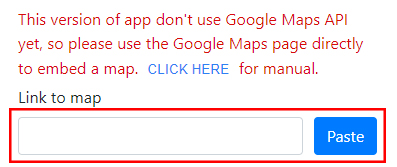
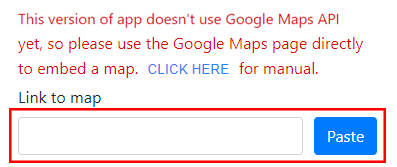
Fix  text on manual

Changed region(s): [[0.0302, 0.0599, 0.8766, 0.1796]]

diff --git a/src/components/routes/sidebar/addEditMode/SidebarAddEditMode.js b/src/components/routes/sidebar/addEditMode/SidebarAddEditMode.js
@@ -268,7 +268,7 @@ export default function SidebarAddEditMode({ routeId }) {
             </Form.Group>
 
             <div className="sidebarAddEditMode__warning">
-              This version of app don't use Google Maps API yet, so please use
+              This version of app doesn't use Google Maps API yet, so please use
               the Google Maps page directly to embed a map. <URLManualModal />{" "}
               for manual.
             </div>

diff --git a/src/components/routes/sidebar/manualModal/URLManualModal.js b/src/components/routes/sidebar/manualModal/URLManualModal.js
@@ -95,7 +95,7 @@ export default function URLManualModal() {
               >
                 Google Maps
               </a>
-              &nbsp;site and choose result
+              &nbsp;site and choose of the result
             </p>
             <img src={manual_1} alt="manual_1" />
           </section>
